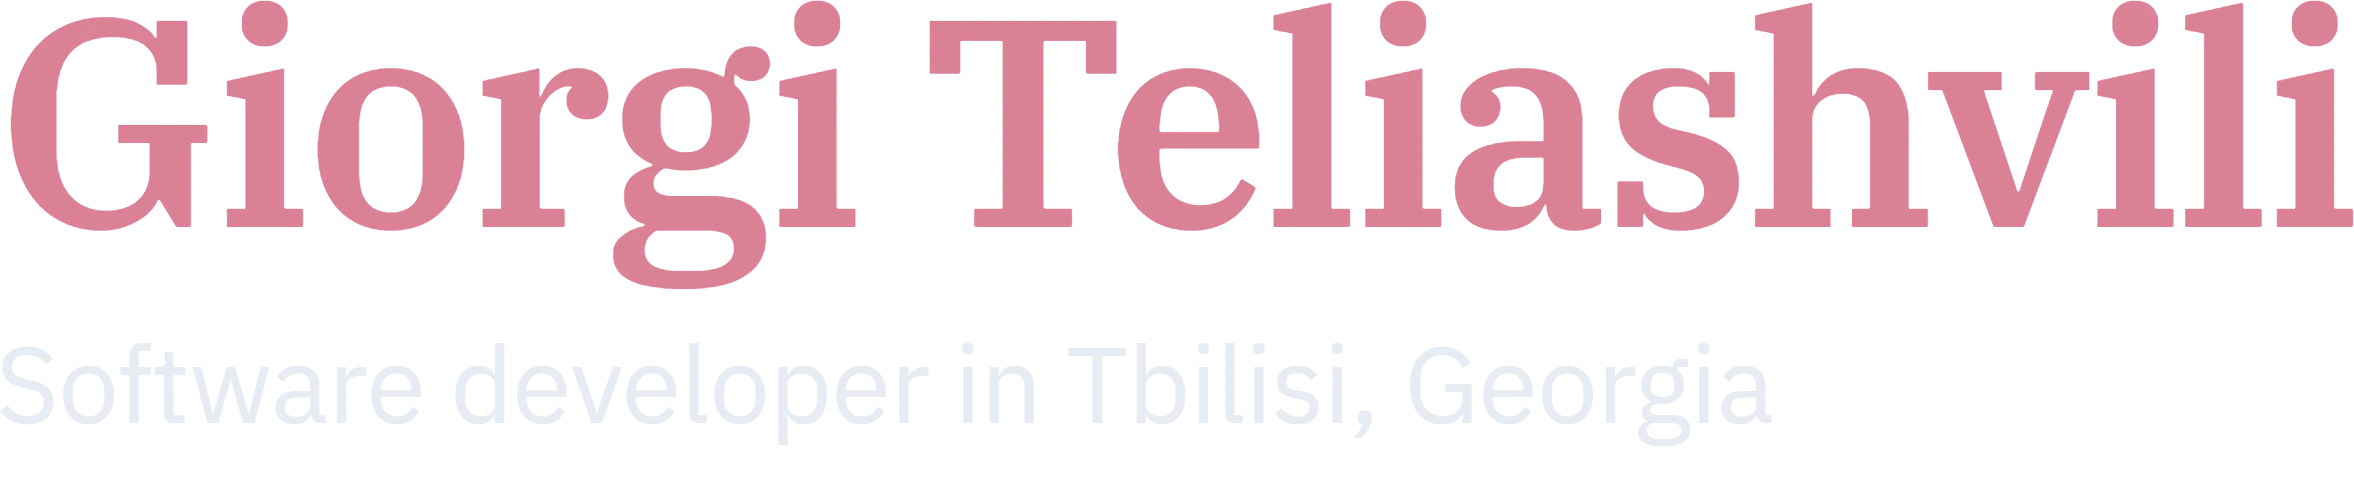
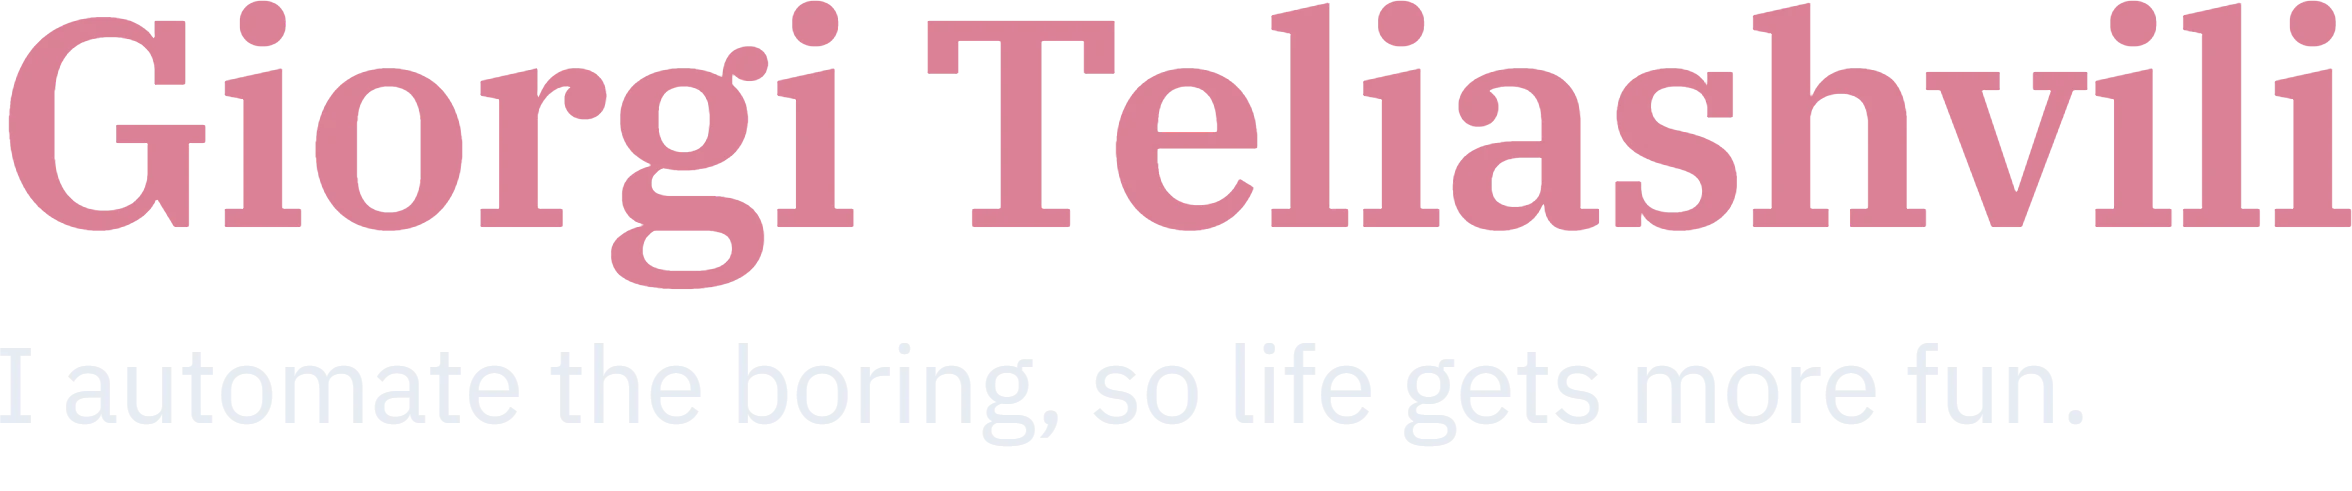
Tagline and motto in my own voice
"I automate the boring, so life gets more fun." under the name, and
"Hunting for awesome things and making them even better!" as the intro.

diff --git a/README.md b/README.md
@@ -1,9 +1,9 @@
 <picture>
   <source media="(prefers-color-scheme: dark)" srcset="assets/banner-dark.webp">
-  <img src="assets/banner-light.webp" alt="Giorgi Teliashvili, software developer in Tbilisi, Georgia" width="100%">
+  <img src="assets/banner-light.webp" alt="Giorgi Teliashvili: I automate the boring, so life gets more fun." width="100%">
 </picture>
 
-I build products for people in Georgia end to end: the crawler or AI pipeline behind them, the database, the interface, and the server they run on. Everything below is live or shipping.
+Hunting for awesome things and making them even better! Everything below is live or on its way.
 
 ## Projects
 
